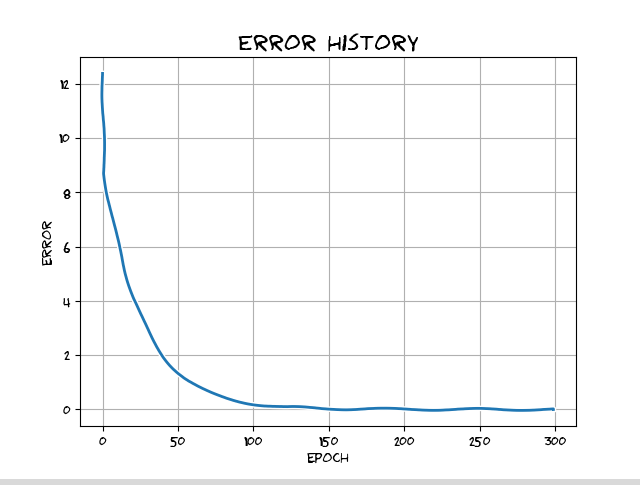
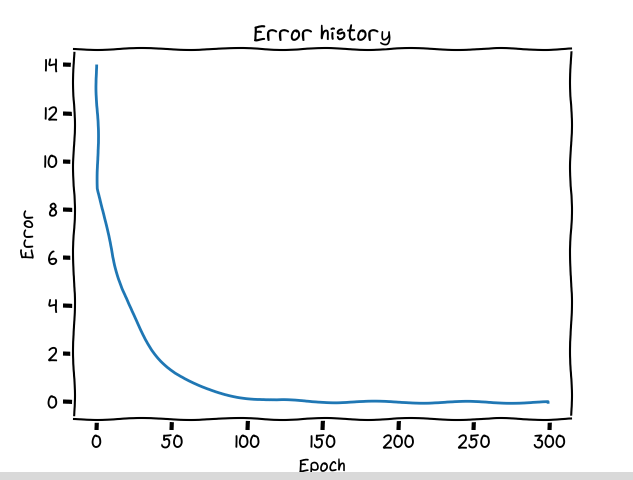
Feat: Documentation

diff --git a/monocapa/core/objects/analyzer.py b/monocapa/core/objects/analyzer.py
@@ -33,7 +33,7 @@ class Analyzer:
         sum(ssr) / len(ssr)
       )
 
-    plt.grid()
+    #plt.grid()
     plt.xkcd()
     plt.plot(history_ssr)
     plt.title("Error history")

diff --git a/README.md b/README.md
@@ -18,20 +18,70 @@ Un percetrón fué creado basado en la forma biológica de nuestras neuronas, un
 
 # 📕 Acerca del proyecto
 
-Este proyecto usa Poetry por detrás, para gestionar fácilmente el proyecto y sus dependencias con el objetivo de que sea fácil y rápido de probar este proyecto.
+Este proyecto usa Poetry por detrás, para gestionar fácilmente el proyecto y sus dependencias con el objetivo de que sea fácil y rápido de probar este proyecto, por el cual, puedes probar el proyecto usando los siguientes comandos:
 
-## El perceptron
+1. **Instalar poetry:** Instalar poetry es tan fácil como ejecutar el comando
 
-El perceptron que fué desarrollado ha sido creado desde 0 para hacer que este proyecto sea fácilmente de interpretar, personalizar y comprender.
+```bash
+pip install poetry
+```
+
+2. **Clonar el repositorio:** Ahora que tienes poetry, clona el repositorio actual para probarlo
+
+```bash
+git clone https://github.com/TechAtlasDev/perceptron-monocapa
+```
+
+Y entra al repositorio que acabas de clonar con el comando `cd perceptron-monocapa`
+
+3. **Instalar las dependencias:** Este proyecto tiene dependencias que te permitirán visualizar el desempeño del perceptrón, puedes instalarlas con el comando:
+
+```bash
+poetry install
+```
+
+4. **Ejecutar el proyecto:** Ejecuta el proyecto con el comando:
+
+```bash
+poetry run linear
+```
+
+## 🧠 El perceptron
+
+El perceptron que fué desarrollado desde 0 para hacer que este proyecto sea fácilmente de interpretar, personalizar y comprender.
+
+Un perceptrón monocapa es la unidad básica de una red neuronal convencional, cuando vemos una representación gráfica de una red neuronal, podemos tomar en cuenta que cada *círculo* es un perceptrón, que tiene entradas y una salida.
+
+![Representación visual de un perceptrón monocapa](image-5.png)
+
+🚀 ¡Comencemos analizando cada parte del perceptrón pero de una perspectiva más amigable!
+
+### Datos de entrada
+
+Los datos de entrada, ¡la raíz de donde todo inicia!, tenemos que buscar una manera de poder darle al perceptrón datos para que este pueda procesar.
+
+Los datos de entrada nos permiten darle al perceptrón datos que tenga que tomar en cuenta, en la imagen podemos ver que son las variables `x1` y `x2`.
+
+Estos datos tienen que ser procesados, se les tiene que asignar un *peso* (en la imagen podemos ver que es `w1` y `w2`) , este peso se les conoce como pesos sinápticos o **wheigts**, lo cual nos permite asignar una *"importancia"* a cada dato de entrada.
+
+### Perceptrón
+
+En el perceptrón podemos visualizar 
 
 ## Métricas
 
 Usamos métricas para poder comprender el rendimiento del modelo, 
 
-![Error history](image-2.png)
+![SSR History](image-2.png)
 
 ![MSE history](image-3.png)
 
 ![SSR history](image-4.png)
 
 Artículo aún por terminar.
+
+## Comportamiento
+
+## Rendimiento
+
+## Casos particulares
